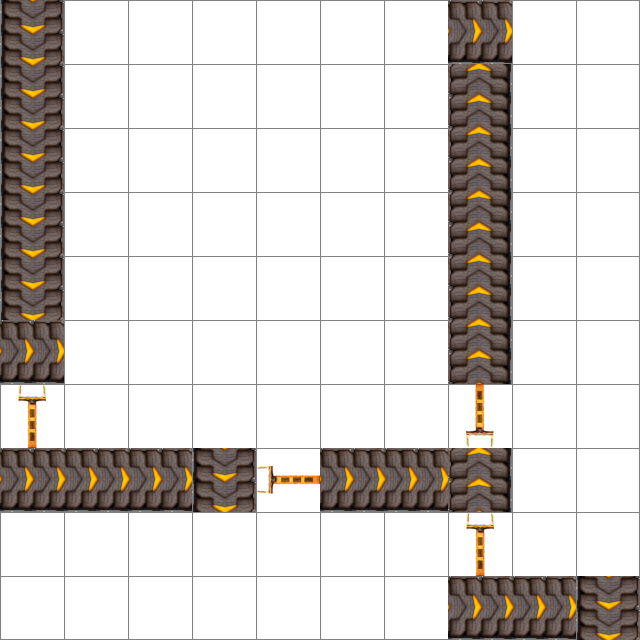
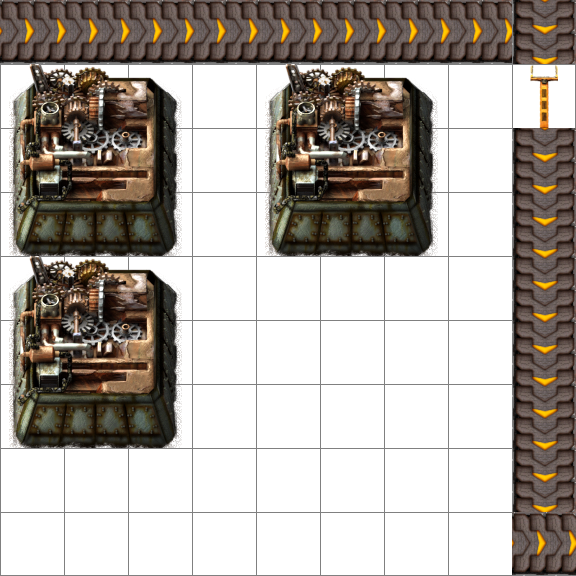
Afegits assemblers, aquests no poden superposar entre ells ni tampoc amb la resta d'elements (belts i inserters)

diff --git a/model/FactorioSolver.py b/model/FactorioSolver.py
@@ -3,6 +3,7 @@ from z3 import *
 from PIL import Image
 import time
 
+from model.AssemblerLogic import AssemblerLogic
 from model.ConveyorLogic import ConveyorLogic
 from model.FactoryLogic import FactoryLogic
 from model.InserterLogic import InserterLogic
@@ -30,24 +31,28 @@ class FactorioSolver:
         conveyor_behaviour = ConveyorLogic(blueprint_width, blueprint_height, input_pos, output_pos, dir_type, directions)
         inserter_behaviour = InserterLogic(blueprint_width, blueprint_height, conveyor_behaviour.conveyor, input_pos, output_pos, dir_type, directions)
         conveyor_behaviour.set_inserter(inserter_behaviour.inserter)
+        assembler_behavior = AssemblerLogic(blueprint_width, blueprint_height)
         route_behaviour = RouteLogic(blueprint_width, blueprint_height, input_pos, output_pos, conveyor_behaviour.conveyor,
                                      inserter_behaviour.inserter, directions)
 
         factory_behavior = FactoryLogic(blueprint_width, blueprint_height, conveyor_behaviour.conveyor,
-                                        inserter_behaviour.inserter, directions)
+                                        inserter_behaviour.inserter, assembler_behavior.collision_area, directions)
 
         self.model_variables.update({"CONVEYOR": conveyor_behaviour.conveyor})
         self.model_variables.update({"ROUTE": route_behaviour.route})
         self.model_variables.update({"INSERTER": inserter_behaviour.inserter})
+        self.model_variables.update({"ASSEMBLER": assembler_behavior.assembler})
+        self.model_variables.update({"ASSEMBLER_COLLISION": assembler_behavior.collision_area})
 
         self.s.add(conveyor_behaviour.constraints()
                    + route_behaviour.constraints()
                    + inserter_behaviour.constraints()
                    + factory_behavior.constraints()
+                   + assembler_behavior.constraints()
                    )
 
         # Maximize the objective function
-        self.s.maximize(route_behaviour.optimize_criteria())
+        self.s.minimize(route_behaviour.optimize_criteria())
 
     def find_solution(self):
         start = time.time()
@@ -68,8 +73,10 @@ class FactorioSolver:
             m = self.s.model()
             for var_name, var_value in self.model_variables.items():
                 print(var_name)
-                for i in range(self.height):
-                    for j in range(self.width):
+                # Get the height and width from the dimensions of var_value
+                height, width = len(var_value), len(var_value[0])
+                for i in range(height):
+                    for j in range(width):
                         print(m[var_value[i][j]], end=' ')
                     print()
         else:
@@ -79,6 +86,7 @@ class FactorioSolver:
         if self.has_solution:
             inserter_img = Image.open('sprites/inserter.png').convert("RGBA")
             belt_img = Image.open('sprites/conveyor.png').convert("RGBA")
+            assembler_img = Image.open('sprites/assembler.png').convert("RGBA")
 
             game_map = self.map_variables()
 
@@ -103,9 +111,15 @@ class FactorioSolver:
                         element, direction = game_map[i][j].split(':')
                         if element == 'CONV':
                             img = belt_img.rotate(int(direction))
+                            pos = (j * img.width, i * img.height)
                         if element == 'INSE':
                             img = inserter_img.rotate(int(direction))
-                        game_map_img.paste(img, (j * img.width, i * img.height), mask=img)
+                            pos = (j * img.width, i * img.height)
+                        if element == 'ASSE':
+                            img = assembler_img.rotate(int(direction))
+                            pos = (j * 64 - 64, i * 64 - 64)
+
+                        game_map_img.paste(img, pos, mask=img)
 
             game_map_img.save('model_image/game_map_model.png')
         else:
@@ -116,9 +130,9 @@ class FactorioSolver:
         direction = {
             'empty': "empty",
             'north': 0,     # North
-            'east': -90,   # East
+            'east': -90,    # East
+            'west': -270,   # West
             'south': -180,  # South
-            'west': -270   # West
         }
         model = self.s.model()
 
@@ -135,5 +149,12 @@ class FactorioSolver:
                 inserter = str(model[self.model_variables['INSERTER'][i][j]]).strip('\"')
                 if inserter != 'empty' and inserter != 'None':
                     game_map[i][j] = f"INSE:{direction[inserter]}"
+
+        # Assemblers
+        for i in range(self.height-2):
+            for j in range(self.width-2):
+                assembler = str(model[self.model_variables['ASSEMBLER'][i][j]]).strip('\"')
+                if assembler != '0':
+                    game_map[i+1][j+1] = f"ASSE:{0}"
 
         return game_map

diff --git a/model/AssemblerLogic.py b/model/AssemblerLogic.py
@@ -1,0 +1,52 @@
+from z3 import *
+
+
+class AssemblerLogic:
+    def __init__(self, width, height):
+        self.assembler_size = 3
+        self.max_assemblers = (width // self.assembler_size) * (height // self.assembler_size)
+
+        self.n_bits = math.ceil(math.log2(self.max_assemblers+1))
+
+        self.placement_width = width - 2
+        self.placement_height = height - 2
+
+        self.width = width
+        self.height = height
+
+        # Center cell of the assembler (takes value from 0 to max_assemblers)
+        self.assembler = [[BitVec(f"A_{i}_{j}", self.n_bits)
+                           for i in range(self.placement_width)] for j in range(self.placement_height)]
+
+        self.collision_area = [[BitVec(f"C_A_{i}_{j}", self.n_bits)
+                                for i in range(self.width)] for j in range(self.height)]
+
+    def domain_constraint(self):
+        return [ULE(self.assembler[i][j], self.max_assemblers)
+                for i in range(self.placement_height) for j in range(self.placement_width)] +\
+                [ULE(self.collision_area[i][j], self.max_assemblers)
+                 for i in range(self.placement_height-2) for j in range(self.placement_width-2)]
+
+    def distinct_assemblers(self):
+        distinct = []
+        for assembler in range(1, self.max_assemblers+1):
+            distinct.append(sum([If(self.assembler[i][j] == assembler, 1, 0)
+                                 for i in range(self.placement_height) for j in range(self.placement_width)]) <= 1)
+        return distinct
+
+    def set_collision(self):
+        set_collision = []
+        for i in range(self.placement_height):
+            for j in range(self.placement_width):
+                surround_collision = []
+                for di in range(-1, 2):
+                    for dj in range(-1, 2):
+                        x = di + i + 1
+                        y = dj + j + 1
+                        if 0 <= x < self.height and 0 <= y < self.width:
+                            surround_collision.append(self.collision_area[x][y] == self.assembler[i][j])
+                set_collision.append(If(self.assembler[i][j] != 0, And(surround_collision), True))
+        return set_collision
+
+    def constraints(self):
+        return self.domain_constraint() + self.distinct_assemblers() + self.set_collision()

diff --git a/model/RouteLogic.py b/model/RouteLogic.py
@@ -92,9 +92,8 @@ class RouteLogic:
                     for direction in range(1, self.n_dir):
                         x, y = i + self.dir_shift[direction][0], j + self.dir_shift[direction][1]
                         if 0 <= x < self.height and 0 <= y < self.width:
-                            # A route cell must have at least one cell route greater than or equal to itself (Output)
-                            input_connections.append(If(Or(self.conveyor[i][j] != self.direction[direction],
-                                                        self.inserter[i][j] != self.direction[direction])
+                            input_connections.append(If(Or(And(self.conveyor[i][j] != self.direction[direction], self.conveyor[i][j] != self.direction[0]),
+                                                        self.inserter[i][j] == self.opposite_dir[direction])
                                                         , And(ULT(self.route[x][y], self.route[i][j]),
                                                         UGT(self.route[x][y], 0)), False))
                     backward_consistency.append(If(UGT(self.route[i][j], 0), Or(input_connections), True))
@@ -123,5 +122,5 @@ class RouteLogic:
         return is_output
 
     def optimize_criteria(self):
-        return sum([If(self.route[i][j] == 0, 1, 0) for i in range(self.height) for j in range(self.width)])
+        return sum([If(self.route[i][j] == 0, 0, 1) for i in range(self.height) for j in range(self.width)])
 

diff --git a/model/FactoryLogic.py b/model/FactoryLogic.py
@@ -2,16 +2,19 @@ from z3 import *
 
 
 class FactoryLogic:
-    def __init__(self, blueprint_width, blueprint_height, conveyor, inserter, direction):
+    def __init__(self, blueprint_width, blueprint_height, conveyor, inserter, assembler, direction):
         self.conveyor = conveyor
         self.inserter = inserter
+        self.assembler = assembler
         self.width = blueprint_width
         self.height = blueprint_height
         self.direction = direction
 
     def collision(self):
         return [PbLe([(self.inserter[i][j] != self.direction[0], 1), (self.conveyor[i][j] != self.direction[0], 1)], 1)
-                for i in range(self.height) for j in range(self.width)]
+                for i in range(self.height) for j in range(self.width)] +\
+                [If(Or(self.inserter[i][j] != self.direction[0], self.conveyor[i][j] != self.direction[0]), self.assembler[i][j] == 0, True)
+                 for i in range(self.height) for j in range(self.width)]
 
     def constraints(self):
         return self.collision()

diff --git a/model/InserterLogic.py b/model/InserterLogic.py
@@ -47,10 +47,10 @@ class InserterLogic:
                     for direction in range(1, self.n_dir):
                         x, y = i + self.dir_shift[direction][0], j + self.dir_shift[direction][1]
                         if 0 <= x < self.height and 0 <= y < self.width:
-
-                            direction_clauses.append(If(self.inserter[i][j] == self.opposite_dir[direction],
-                                                        self.conveyor[x][y] != self.direction[0],
-                                                        False))
+                            if self.is_output(x, y):
+                                direction_clauses.append(If(self.inserter[i][j] == self.opposite_dir[direction],
+                                                            self.conveyor[x][y] != self.direction[0],
+                                                            False))
                     inserter_input.append(If(self.inserter[i][j] != self.direction[0], Or(direction_clauses), True))
 
         return inserter_input

diff --git a/model/main.py b/model/main.py
@@ -14,11 +14,16 @@ COSES A FER:
 
 # FOR TESTING #
 
+recipes = {"IRON_STICK": {"IN": []}}
+
+
+
+
 # SOLVER DECLARATION #
-blueprint_width = 10
-blueprint_height = 10
+blueprint_width = 9
+blueprint_height = 9
 input_positions = [(0, 0)]
-output_positions = [(7, 7), (0, 7), (7, 3), (5, 0), (9, 9)]
+output_positions = [(8, 8), (0, 8)]
 solver = FactorioSolver(blueprint_width, blueprint_height, input_positions, output_positions)
 
 # FIND A SOLUTION #
